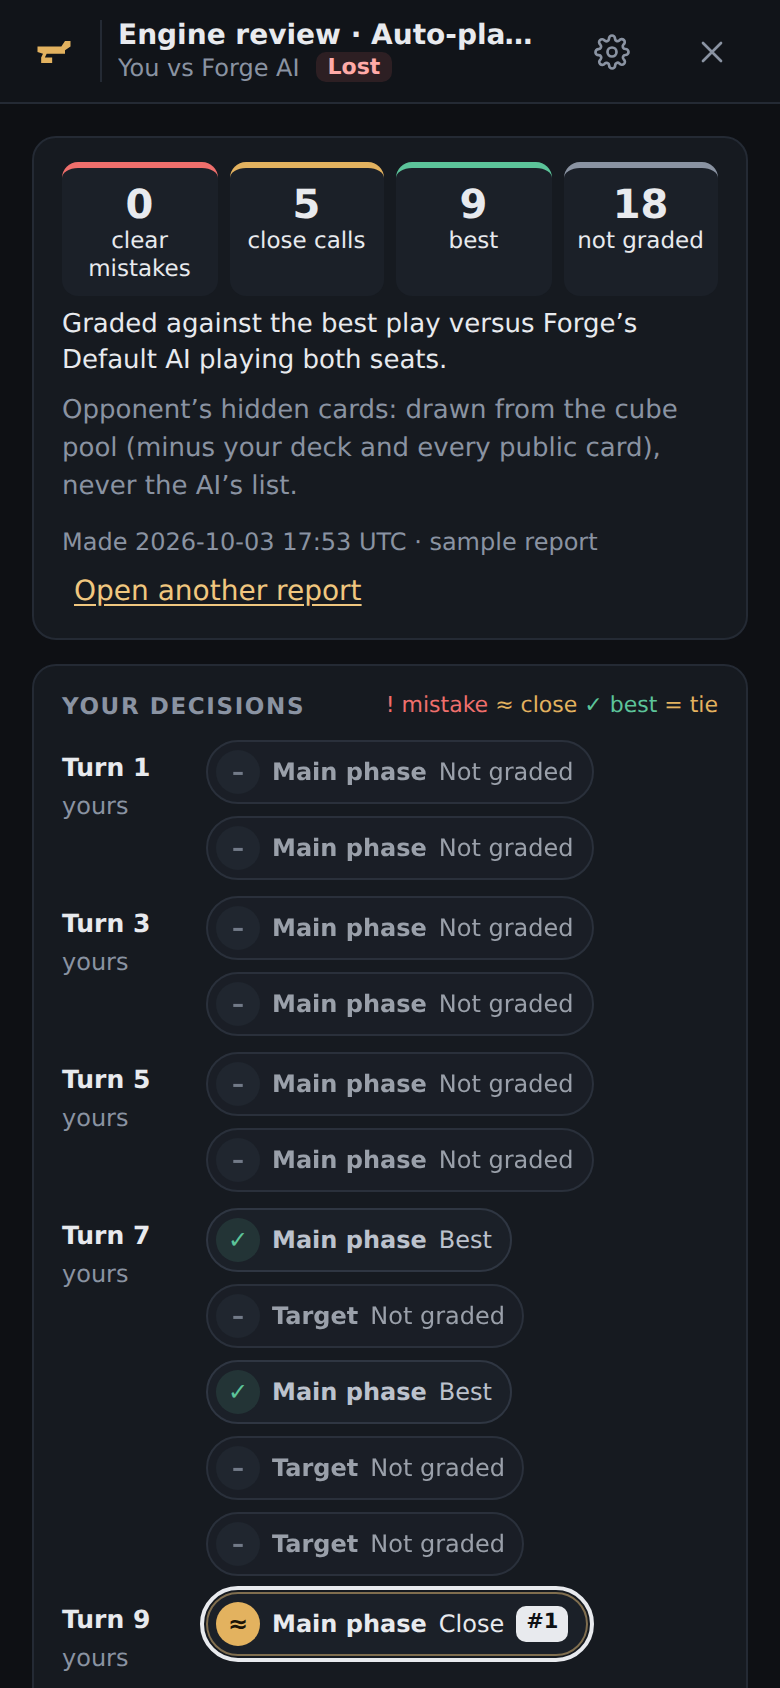
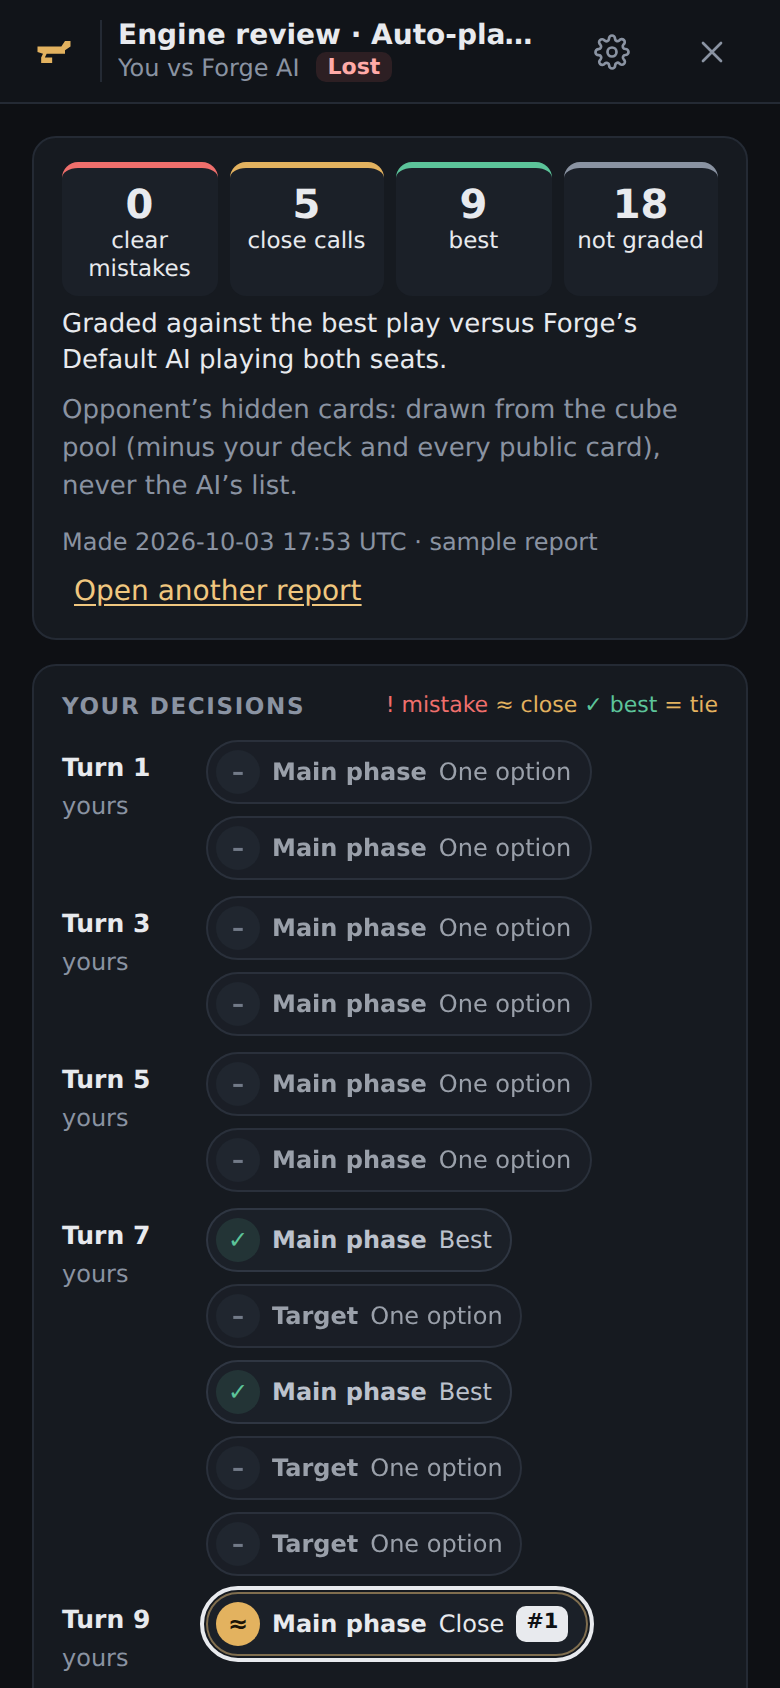
Engine review: a fixed 0-100% axis for the option bars; one-option decisions say so
A zoomed axis made a few points look like a landslide at intervals this
wide. Screenshots regenerated.

Claude-Session: https://claude.ai/code/session_01DzMXkZmWoQAZXdGCUrx2mN

diff --git a/src/ui/review/OptionBars.tsx b/src/ui/review/OptionBars.tsx
@@ -4,7 +4,7 @@
  *
  * One decision's options as horizontal bars: the point (win rate, or the
  * short-horizon score for a leaf measure) with its 95% interval as a whisker,
- * on an axis zoomed to the options' range and labelled at both ends. The
+ * on a fixed 0–100% axis labelled at both ends. The
  * player's choice, the engine's best and Forge's choice are said in words,
  * not only by colour.
  */
@@ -12,19 +12,12 @@ import type { GameStateBody } from '../../protocol.ts';
 import { fmtInterval, fmtRate, fmtRegret, sameOption, tokenLabel, type ReviewDecision, type ReviewOption } from '../../gameReview.ts';
 import { cx } from '../util.ts';
 
-/** The axis: the options' interval range, padded, on 5-point steps, inside [0, 1]. */
-export function axisDomain(options: ReviewOption[]): [number, number] {
-  const vals = options.flatMap((o) => [o.winLo, o.winHi, o.winRate]).filter((x): x is number => x !== null);
-  if (vals.length === 0) return [0, 1];
-  let lo = Math.max(0, Math.floor((Math.min(...vals) - 0.05) * 20) / 20);
-  let hi = Math.min(1, Math.ceil((Math.max(...vals) + 0.05) * 20) / 20);
-  if (hi - lo < 0.2) {
-    const mid = (hi + lo) / 2;
-    lo = Math.max(0, mid - 0.1);
-    hi = Math.min(1, lo + 0.2);
-    lo = Math.max(0, hi - 0.2);
-  }
-  return [lo, hi];
+/**
+ * The axis: always 0–100%. A zoomed axis would make a few points look like a
+ * landslide; with intervals this wide, the full scale is the honest one.
+ */
+export function axisDomain(_options: ReviewOption[]): [number, number] {
+  return [0, 1];
 }
 
 export function OptionBars({ d, state, seat }: { d: ReviewDecision; state: GameStateBody | null; seat: number }) {

diff --git a/src/ui/review/ReviewTimeline.tsx b/src/ui/review/ReviewTimeline.tsx
@@ -57,7 +57,7 @@ export function ReviewTimeline({
                       {isTie(d) ? '=' : GLYPH[d.verdict]}
                     </span>
                     <span className="rv-chip-type">{TYPE_WORDS[d.type]}</span>
-                    <span className="rv-chip-verdict">{isTie(d) ? 'Tie' : SHORT[d.verdict]}</span>
+                    <span className="rv-chip-verdict">{isTie(d) ? 'Tie' : d.status === 'trivial' ? 'One option' : SHORT[d.verdict]}</span>
                     {keyRank !== null && <span className="rv-chip-key">#{keyRank}</span>}
                   </button>
                 );
